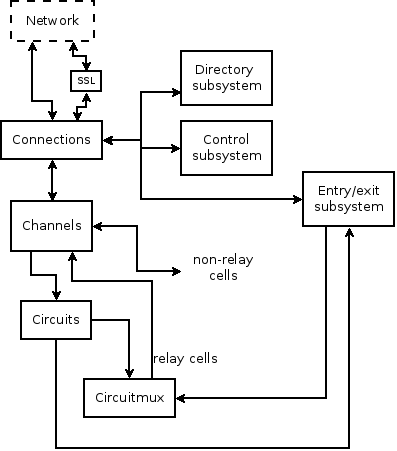
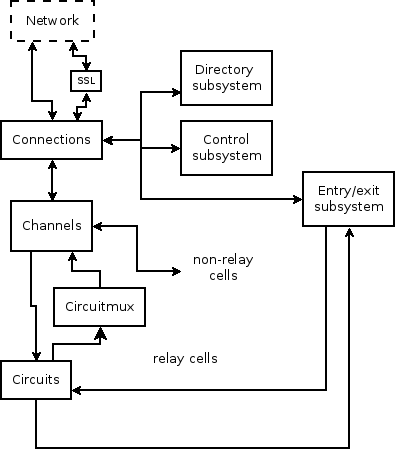
Finish dataflow draft

Changed region(s): [[0.0, 0.5898, 0.8161, 1.0]]

diff --git a/02-dataflow.md b/02-dataflow.md
@@ -151,6 +151,24 @@ They are implemented in `connection.c`.
 >`getaddrinfo()`.  (Nowadays we use Libevent's evdns facility to
 >perform DNS requests asynchronously.)
 
+#### Linked connections ####
+
+Sometimes two channels are joined together, such that data which the
+Tor process sends on one should immediately be received by the same
+Tor process on the other.  (For example, when Tor makes a tunneled
+directory connection, this is implemented on the client side as a
+directory connection whose output goes, not to the network, but to a
+local entry connection. And when a directory receives a tunnelled
+directory connection, this is implemented as an exit connection whose
+output goes, not to the network, but to a local directory connection.)
+
+The earliest versions of Tor to support linked connections used
+socketpairs for the purpose.  But using socketpairs forced us to copy
+data through kernelspace, and wasted limited file descriptors.  So
+instead, a pair of connections can be linked in-process.  Each linked
+connection has a pointer to the other, such that data written on one
+is immediately readable on the other, and vice versa.
+
 ### From connections to channels ###
 
 There's an abstraction layer above OR connections (the ones that
@@ -169,13 +187,50 @@ immediately processed using `channel_process_cells()`.
 Some cell types are handled below the channel layer, such as those
 that affect handshaking only.  And some others are passed up to the
 generic cross-channel code in `command.c`: cells like `DESTROY` and
-`CREATED` are all trivial to handle.  But `RELAY` cells
+`CREATED` are all trivial to handle.  But relay cells
 require special handling...
 
-### From channels to circuitmux ###
+### From channels through circuits ###
 
-When a relay cell arrives on a circuit, XXXXX ...
+When a relay cell arrives on an existing circuit, it is handled in
+`circuit_receive_relay_cell()` -- one of the innermost functions in
+Tor.  This function encrypts or decrypts the relay cell as
+appropriate, and decides whether the cell is intended for the current
+hop of the circuit.
 
+If the cell *is* intended for the current hop, we pass it to
+`connection_edge_process_relay_cell()` in `relay.c`, which acts on it
+based on its relay command, and (possibly) queues its data on an
+`edge_connection_t`.
 
+If the cell *is not* intended for the current hop, we queue it for the
+next channel in sequence with `append cell_to_circuit_queue()`.  This
+places the cell on a per-circuit queue for cells headed out on that
+particular channel.
 
-### From circuitmux to circuits: moving bytes from here to there.
+### Sending cells on circuits: the complicated bit. ###
+
+Relay cells are queued onto circuits from one of two (main) sources:
+reading data from edge connections, and receiving a cell to be relayed
+on a circuit.  Both of these sources place their cells on cell queue:
+each circuit has one cell queue for each direction that it travels.
+
+A naive implementation would skip using cell queues, and instead write
+each outgoing relay cell.  (Tor did this in its earlier versions.)
+But such an approach tends to give poor performance, because it allows
+high-volume circuits to clog channels, and it forces the Tor server to
+send data queued on a circuit even after that circuit has been closed.
+
+So by using queues on each circuit, we can add cells to each channel
+on a just-in-time basis, choosing the cell at each moment based on the
+a performance-aware algorithm.
+
+This logic is implemented in two main modules: `scheduler.c` and
+`circuitmux*.c`.  The scheduler code is responsible for determining
+globally, across all channels that could write cells, which one should
+next receive queued cellst.  The circuitmux code determines, for all
+of the circuits with queued cells for a channel, which one should
+queue the next cell.
+
+(This logic applies to outgoing relay cells only; incoming relay cells
+are processed as they arrive.)

diff --git a/00-overview.md b/00-overview.md
@@ -1,5 +1,5 @@
 
-## Overview
+## Overview ##
 
 This document describes the general structure of the Tor codebase, how
 it fits together, what functionality is available for extending Tor,
@@ -27,7 +27,7 @@ development tools, see doc/HACKING in the Tor repository.
 For more information about writing tests, see doc/HACKING/WritingTests.txt
 in the Tor repository.
 
-### The very high level
+### The very high level ###
 
 Ultimately, Tor runs as an event-driven network daemon: it responds to
 network events, signals, and timers by sending and receiving things over
@@ -63,8 +63,10 @@ The codebase is divided into a few main subdirectories:
    src/ext -- Code maintained elsewhere that we include in the Tor
    source distribution.
 
+   src/trunnel -- automatically generated code (from the Trunnel)
+   tool: used to parse and encode binary formats.
 
-### Some key high-level abstractions
+### Some key high-level abstractions ###
 
 The most important abstractions at Tor's high-level are Connections,
 Channels, Circuits, and Nodes.
@@ -92,9 +94,12 @@ If we switch to other strategies in the future, we'll have more
 connection types.
 
 A 'Node' is a view of a Tor instance's current knowledge and opinions
-about a Tor relay or bridge.
+about a Tor relay orbridge.
 
-### The rest of this document.
+### The rest of this document. ###
+
+> **Note**: This section describes the eventual organization of this
+> document, which is not yet complete.
 
 We'll begin with an overview of the various utility functions available
 in Tor's 'common' directory.  Knowing about these is key to writing
@@ -104,9 +109,11 @@ Then we'll go on and talk about the main data-flow of the Tor network:
 how Tor generates and responds to network traffic.  This will occupy a
 chapter for the main overview, with other chapters for special topics.
 
+After that, we'll mention the main modules in Tor, and describe the
+function of each.
+
 We'll cover the directory subsystem next: how Tor learns about other
 relays, and how relays advertise themselves.
-
 
 Then we'll cover a few specialized modules, such as hidden services,
 sandboxing, hibernation, accounting, statistics, guards, path
